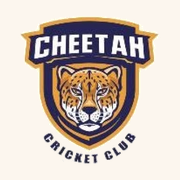
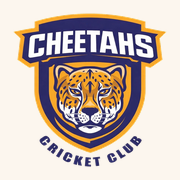
Replace the crest with the CHEETAHS artwork.
The shield from PR #28 still read CHEETAH. These files are regenerated from the new navy and gold crest, with the outer white removed and icon URLs cache-busted.

diff --git a/index.html b/index.html
@@ -2,11 +2,11 @@
 <html lang="en">
   <head>
     <meta charset="UTF-8" />
-    <link rel="icon" href="/favicon.ico" sizes="any" />
-    <link rel="icon" type="image/png" sizes="32x32" href="/favicon-32.png" />
-    <link rel="icon" type="image/png" sizes="16x16" href="/favicon-16.png" />
-    <link rel="apple-touch-icon" href="/apple-touch-icon.png" />
-    <meta property="og:image" content="/crest-og.png" />
+    <link rel="icon" href="/favicon.ico?v=4c93e428" sizes="any" />
+    <link rel="icon" type="image/png" sizes="32x32" href="/favicon-32.png?v=4c93e428" />
+    <link rel="icon" type="image/png" sizes="16x16" href="/favicon-16.png?v=4c93e428" />
+    <link rel="apple-touch-icon" href="/apple-touch-icon.png?v=4c93e428" />
+    <meta property="og:image" content="/crest-og.png?v=4c93e428" />
     <meta property="og:image:alt" content="Cheetahs Cricket Club crest" />
     <meta name="viewport" content="width=device-width, initial-scale=1.0" />
     <meta name="theme-color" content="#28264c" />

diff --git a/src/components/Crest.tsx b/src/components/Crest.tsx
@@ -1,6 +1,9 @@
 /** Intrinsic pixel size of public/crest.png. Width and height stay in this ratio. */
-const CREST_WIDTH = 303
-const CREST_HEIGHT = 321
+const CREST_WIDTH = 985
+const CREST_HEIGHT = 988
+
+/** Query so browsers drop the previous CHEETAH crest cached at these paths. */
+const CREST_VERSION = '4c93e428'
 
 type CrestProps = {
   width: number
@@ -10,10 +13,11 @@ type CrestProps = {
 
 export function Crest({ width, alt = '', className }: CrestProps) {
   const height = Math.round((width * CREST_HEIGHT) / CREST_WIDTH)
+  const version = `?v=${CREST_VERSION}`
   return (
     <picture className={className}>
-      <source srcSet="/crest.webp" type="image/webp" />
-      <img src="/crest.png" alt={alt} width={width} height={height} />
+      <source srcSet={`/crest.webp${version}`} type="image/webp" />
+      <img src={`/crest.png${version}`} alt={alt} width={width} height={height} />
     </picture>
   )
 }
